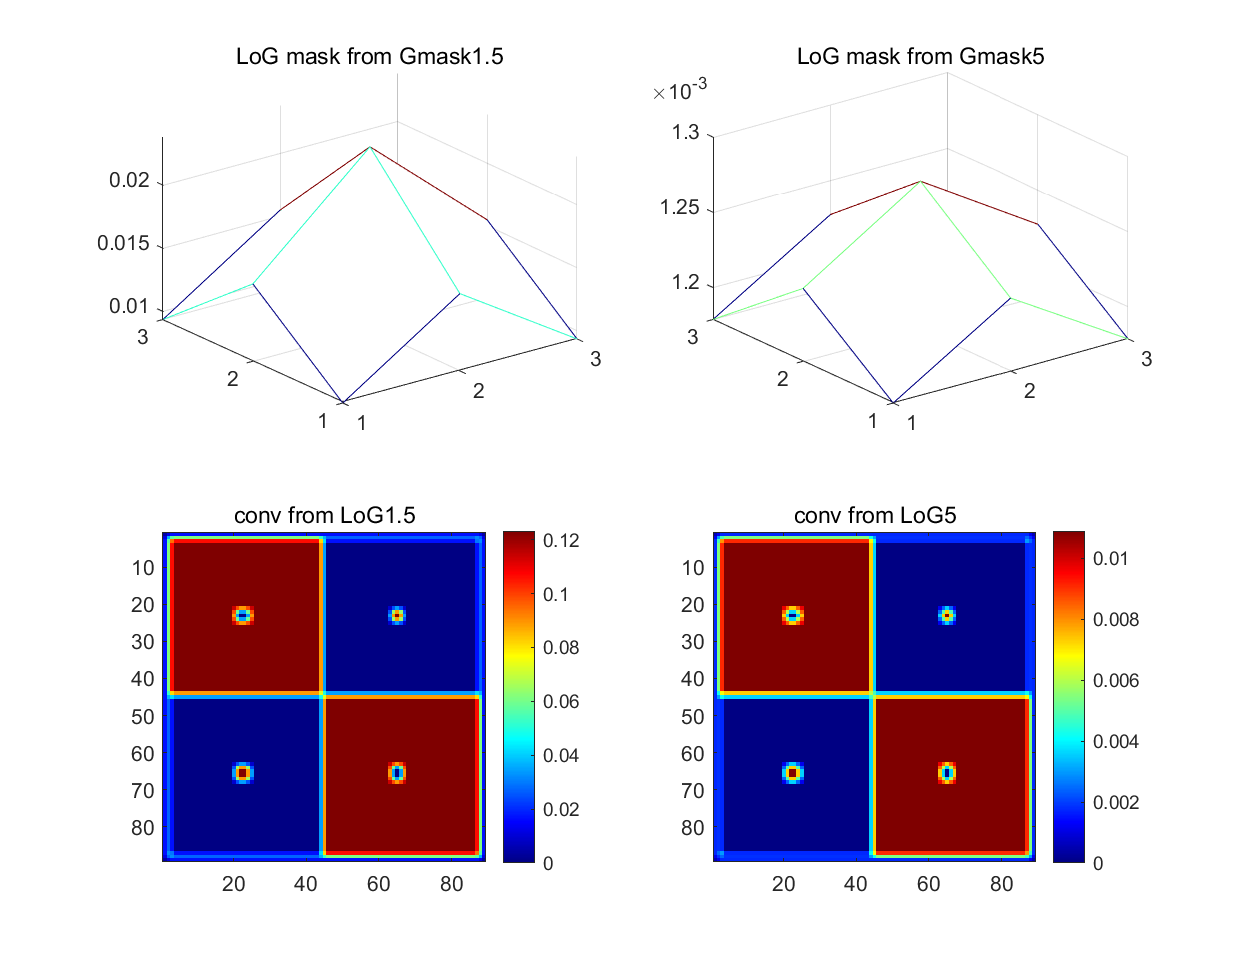
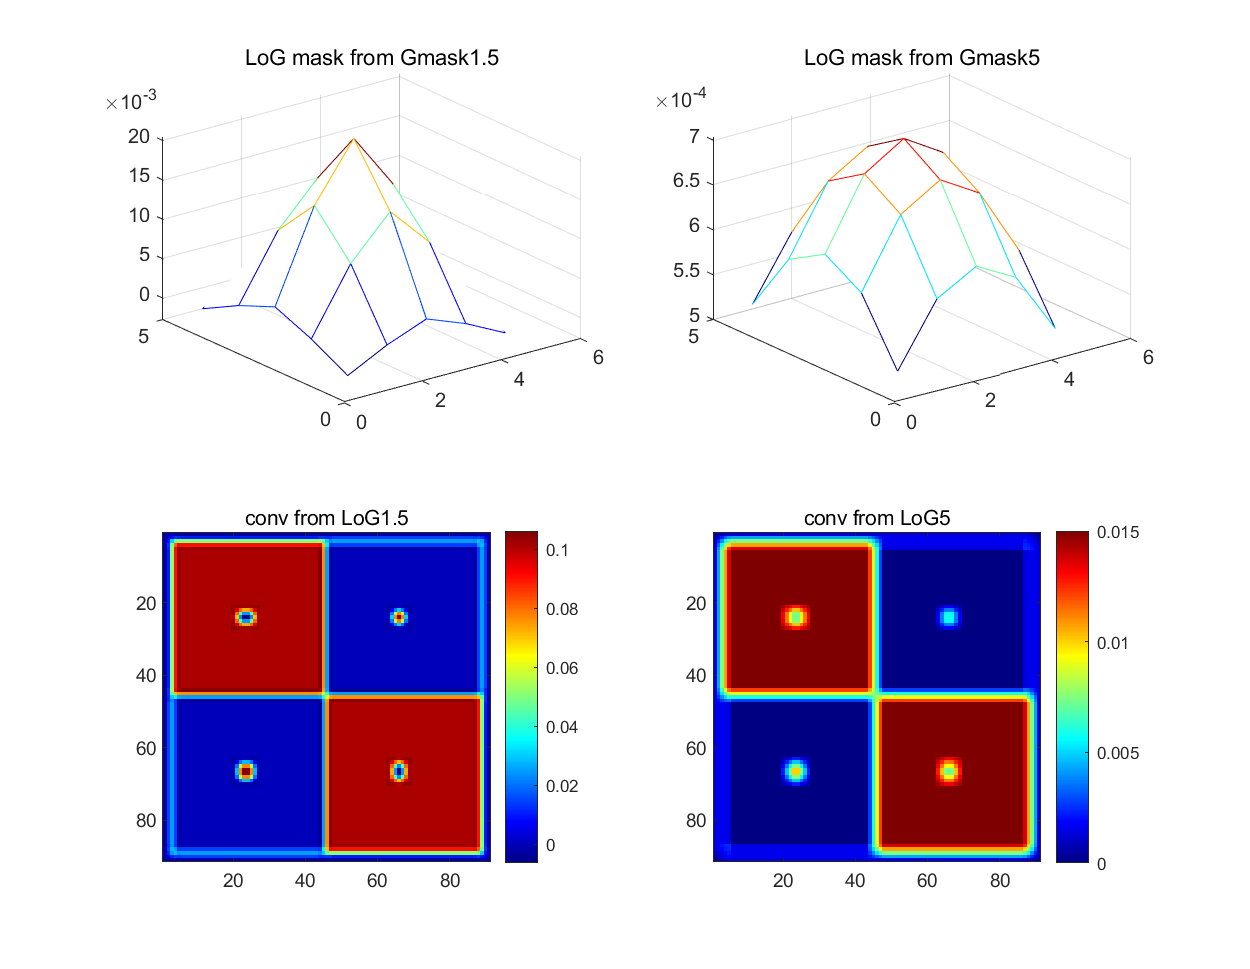
yunxue

diff --git a/lab1/q513.m b/lab1/q513.m
@@ -1,5 +1,5 @@
 clear;read_pic;
-Gmask = fspecial('gaussian',5,1.5);
+Gmask = fspecial('gaussian',7,1.5);
 drvtmask = [-1 1];
 Gdrvtmask1 = conv2(Gmask,drvtmask,'same');
 Gdrvtmask2 = conv2(Gmask,drvtmask','same');
@@ -10,7 +10,7 @@ y2 = conv2(rooster,Gdrvtmask2,'same');
 
 figure(1);set(gcf,'position',[50,50,800,300]);
 subplot(121),imagesc(sqrt(x1.^2+y1.^2));
-title('boxes conv with L2-norm mask');colormap('gray'),caxis([0 1]),colorbar;
+title('boxes conv with L2-norm mask');colormap('gray'),colorbar;
 subplot(122),imagesc(sqrt(x2.^2+y2.^2));
-title('rooster conv with L2-norm mask');colormap('gray'),caxis([0 1]),colorbar
+title('rooster conv with L2-norm mask');colormap('gray'),colorbar
 print -dpng q513.png 

diff --git a/lab1/q521.m b/lab1/q521.m
@@ -1,7 +1,7 @@
 clear;read_pic;
 l1 = -1/8.*[1 1 1;1 -8 1;1 1 1];
-Gmask1 = fspecial('gaussian',[5 5],1.5);
-Gmask2 = fspecial('gaussian',[5 5],5);
+Gmask1 = fspecial('gaussian',7,1.5);
+Gmask2 = fspecial('gaussian',7,5);
 LoGmask1 = conv2(Gmask1,l1,'valid');
 LoGmask2 = conv2(Gmask2,l1,'valid');
 x = conv2(boxes,LoGmask1);
@@ -16,5 +16,5 @@ subplot(224),imagesc(y);title('conv from LoG5');
 colormap('jet'),colorbar;
 print -dpng q521.png
 
-max(x(:)) % 0.1232
-max(y(:)) % 0.0109
+max(x(:)) % 0.1061
+max(y(:)) % 0.0150

diff --git a/lab1/q512.m b/lab1/q512.m
@@ -1,5 +1,5 @@
 clear;read_pic;
-Gmask = fspecial('gaussian',[5 5],1.5);
+Gmask = fspecial('gaussian',7,1.5);
 drvtmask = [-1 1];
 Gdrvtmask1 = conv2(Gmask,drvtmask);
 Gdrvtmask2 = conv2(Gmask,drvtmask');
@@ -17,5 +17,5 @@ subplot(224),imagesc(y);
 title('conv with Gaussian derivative mask(y)');colormap('jet'),colorbar
 print -dpng q512.png 
 
-max(x(:)) % 0.2921
-max(y(:)) % 0.2921
+max(x(:)) % 0.2707
+max(y(:)) % 0.2707

diff --git a/lab1/q511.m b/lab1/q511.m
@@ -1,5 +1,5 @@
 clear;read_pic;
-Gmask = fspecial('gaussian',[5 5],5);
+Gmask = fspecial('gaussian',7,5);
 drvtmask = [-1 1];
 Gdrvtmask1 = conv2(Gmask,drvtmask);
 Gdrvtmask2 = conv2(Gmask,drvtmask');
@@ -17,5 +17,5 @@ subplot(224),imagesc(y);
 title('conv with Gaussian derivative mask(y)');colormap('jet'),colorbar
 print -dpng q511.png 
 
-max(x(:)) % 0.2080
-max(y(:)) % 0.2080
+max(x(:)) % 0.1544
+max(y(:)) % 0.1544

diff --git a/lab1/q522.m b/lab1/q522.m
@@ -1,7 +1,7 @@
 clear;read_pic;
 l1 = -1/8.*[1 1 1;1 -8 1;1 1 1];
-Gmask1 = fspecial('gaussian',[5 5],1.5);
-Gmask2 = fspecial('gaussian',[5 5],5);
+Gmask1 = fspecial('gaussian',9,1.5);
+Gmask2 = fspecial('gaussian',9,5);
 LoGmask1 = conv2(Gmask1,l1,'valid');
 LoGmask2 = conv2(Gmask2,l1,'valid');
 x = conv2(rooster,LoGmask1);
